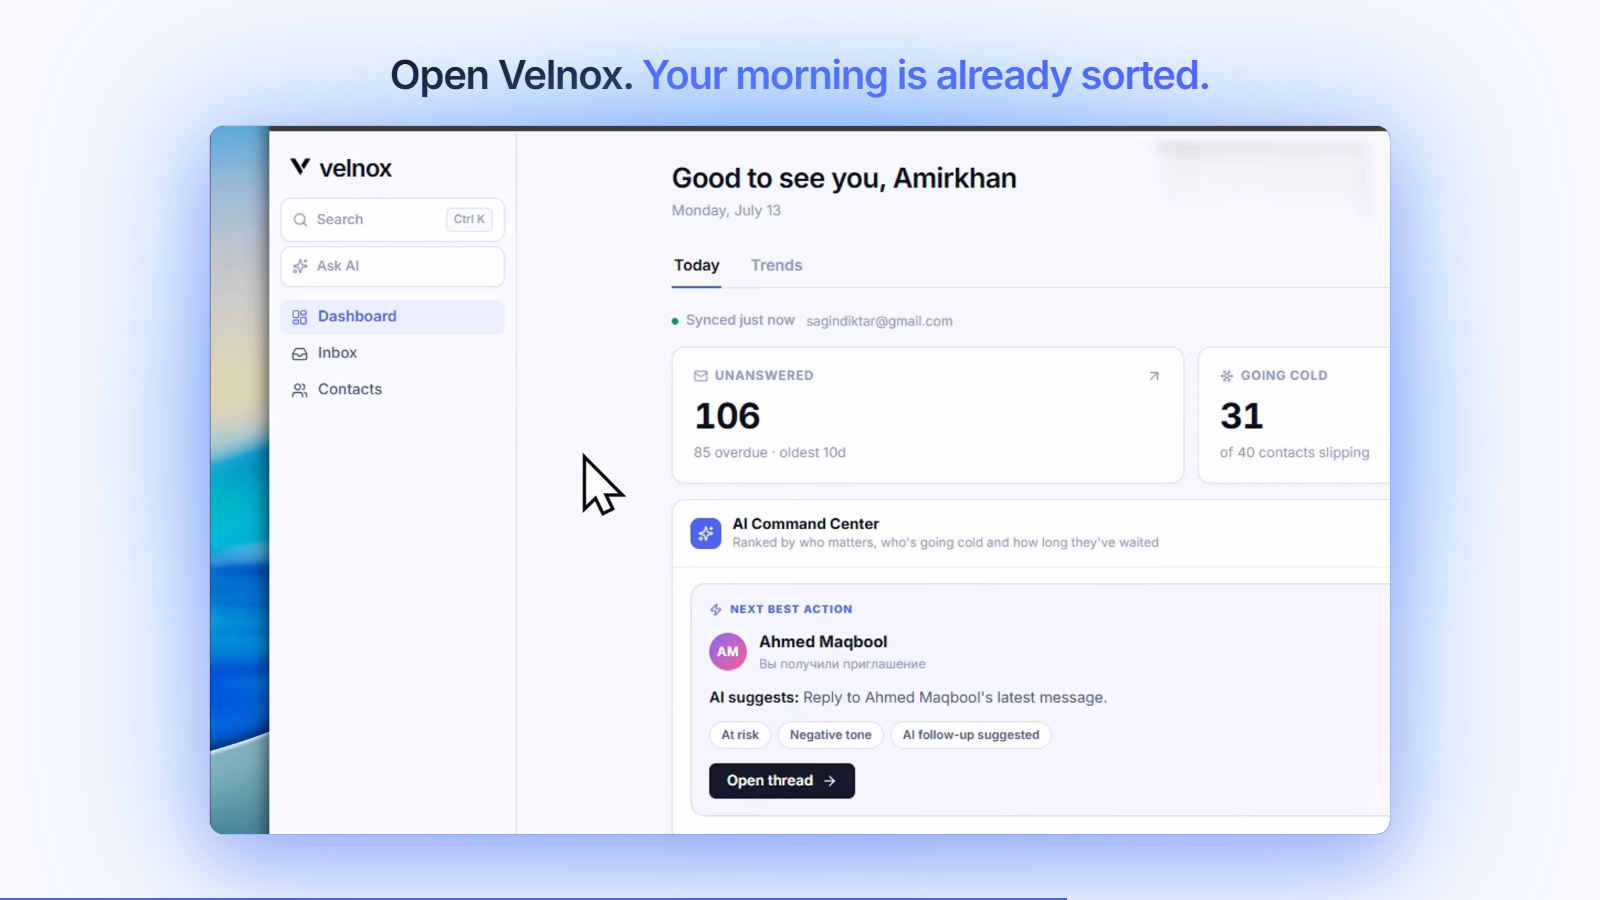
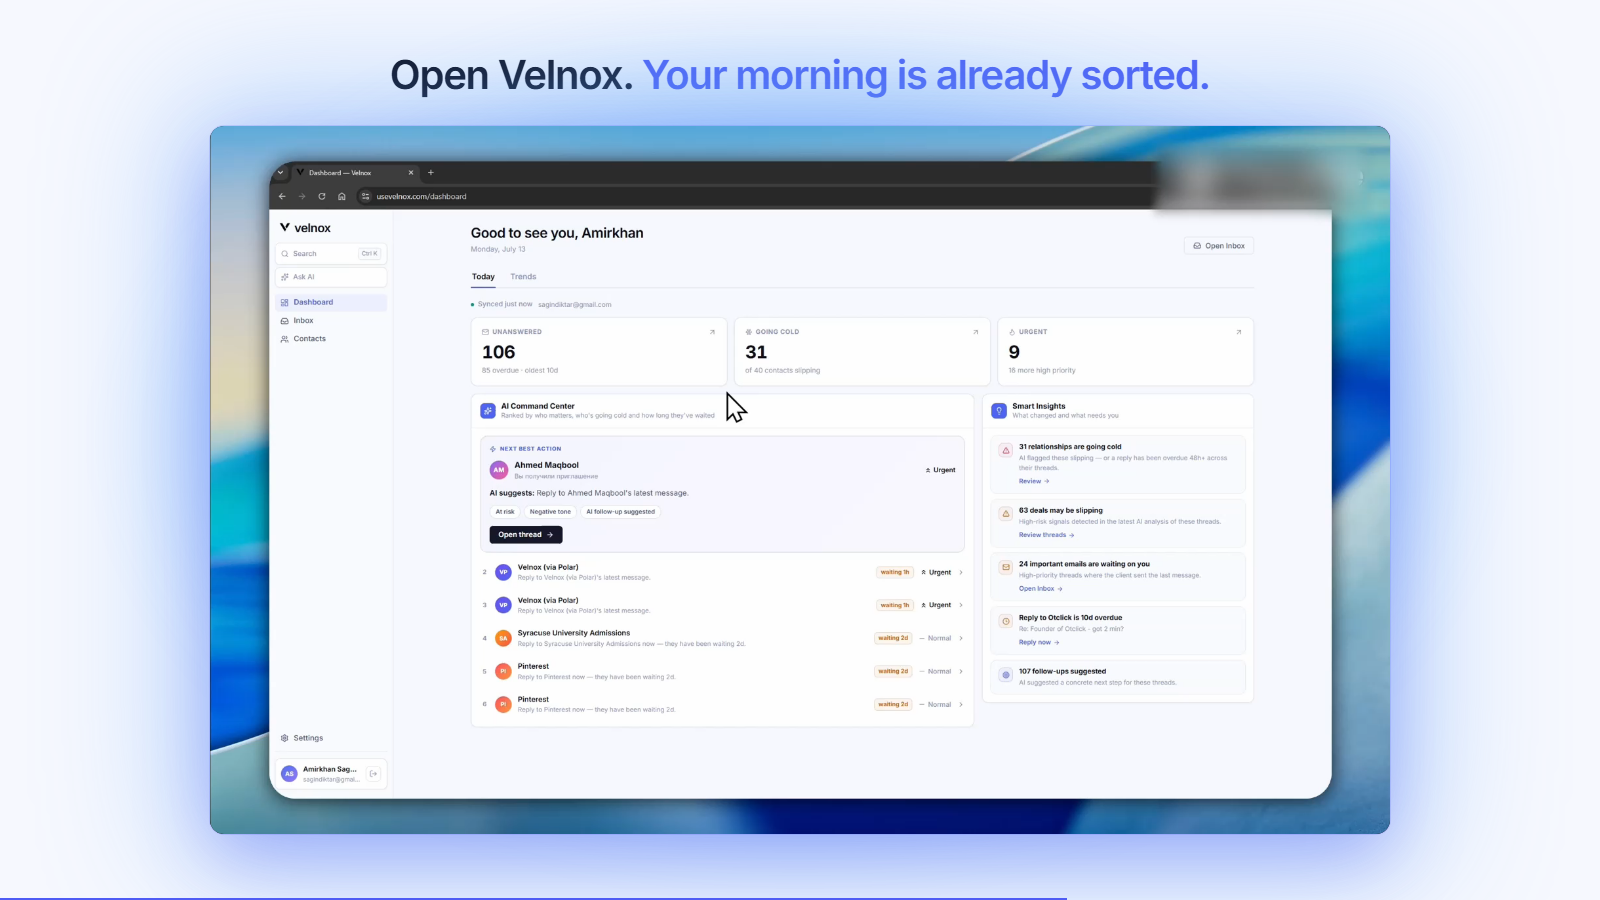
Rebuild the title card; pick a poster frame that isn't mid-zoom
Slide 1 was the landing hero rebuilt — big centred Fraunces two-liner over the
skyline, subtitle beneath. Slide 3 shows a photograph of that same hero as its
traction evidence. Same face, same centring, same skyline, same subtitle slot,
and near-synonymous words ("never lose a client in your Gmail" / "stop losing
clients in your inbox"): the room saw one composition twice and read the second
as a rerun. The hero now belongs to slide 3, where it is proof, and slide 1 is
what the brief actually asked for and what a title card should be — the logo and
one sentence.

Slide 4's still was grabbed at t=1.2s, which is mid-zoom. Screen Studio's
auto-zoom starts at ~0.3s and by 1s has pushed the window off the right edge of
its own frame, so the frame carried a severed "GOING COLD" card, a cursor
stranded in empty space, half a slide of blank white and one lone sliver of
wallpaper down the left that reads as a rendering fault. Contact-sheeting the
whole 30s showed t=0 is the only frame where the composition is intact: the
window whole, usevelnox.com/dashboard visible in the URL bar, all three stat
cards (106 / 31 / 9), Smart Insights, and the wallpaper surrounding the window
evenly — as a frame, which is what it is meant to be.

Worth being straight about the limit: the teal is inherent to the recording, not
a crop artefact. The window floats on that wallpaper and zooms and pans across
it for the whole 30s, so the video will always show some. t=0 is the best frame
[…]

diff --git a/deck/index.html b/deck/index.html
@@ -562,19 +562,24 @@ html, body {
   <section class="slide" id="s1" data-active>
     <div class="skyline" data-sky aria-hidden="true"></div>
 
+    <!-- Logo and one sentence. Nothing else.
+
+         This slide used to be the landing hero rebuilt: a big centred Fraunces
+         two-liner over the skyline with a subtitle under it. That is precisely
+         what slide 3 shows a photograph of — same face, same centring, same
+         skyline, same subtitle slot, and even near-synonymous words ("never lose
+         a client in your Gmail" / "stop losing clients in your inbox"). The room
+         saw one composition twice and read the second as a rerun of the first.
+         So the hero belongs to slide 3, where it is evidence, and the title card
+         is now what a title card should be: who this is, and what it does. -->
     <div class="inner">
-      <div class="r brand" style="gap:14px; margin-bottom:44px;">
-        <img src="../public/logo.png" alt="" width="40" height="40" />
-        <span style="font-size:43px;">velnox</span>
+      <div class="r brand" style="gap:26px; margin-bottom:34px; justify-content:center;">
+        <img src="../public/logo.png" alt="" width="88" height="88" />
+        <span style="font-size:104px;">velnox</span>
       </div>
 
-      <h1 class="r hero-serif" style="font-size:86px; margin-bottom:26px;">
-        Never lose a client<br />in your Gmail.
-      </h1>
-
-      <p class="r" style="font-size:21px; color:var(--text-secondary); line-height:1.6; max-width:760px; margin:0 auto; text-wrap:balance;">
-        Velnox reads your Gmail and tells you which client to answer today, who's going cold,
-        and what to say — with the reply already drafted.
+      <p class="r" style="font-size:34px; color:var(--text-secondary); letter-spacing:-0.022em; line-height:1.4; text-wrap:balance;">
+        Never lose a client in your Gmail.
       </p>
     </div>
   </section>

diff --git a/deck/build-pptx.js b/deck/build-pptx.js
@@ -87,5 +87,6 @@ pres.writeFile({ fileName: OUT }).then(() => {
   console.log(`  6 slides, ${STAGE_W}x${STAGE_H}in, ${(kb / 1024).toFixed(1)} MB`);
   console.log(`  video box: ${(SCENE.x * PX).toFixed(3)}, ${(SCENE.y * PX).toFixed(3)} ` +
               `${(SCENE.w * PX).toFixed(3)} x ${(SCENE.h * PX).toFixed(3)} in`);
-  console.log(`  NOTE: run crop-video.py next — the 60px pillarbox is still uncropped here.`);
+  console.log(`  NEXT: python deck/fix-video.py — the poster is still pptxgenjs's grey`);
+  console.log(`        placeholder and the 60px pillarbox is still uncropped.`);
 });

diff --git a/deck/fix-video.py b/deck/fix-video.py
@@ -4,7 +4,15 @@ pptxgenjs leaves two things wrong on slide 4 that it has no API for:
 
 1. The poster is its own grey play-button placeholder, which would sit over the
    middle of the slide until someone hits play. Replaced with poster.png — a real
-   1920x1080 frame of demo.mp4 at t=1.2s, the same frame slide4.png renders.
+   1920x1080 frame of demo.mp4 at t=0, the same frame slide4.png renders.
+
+   t=0 specifically. Screen Studio's auto-zoom starts moving at ~0.3s and by 1s
+   it has pushed the window off the right edge of its own frame, so a later grab
+   shows a severed card, a cursor stranded in dead space and a lone sliver of
+   wallpaper down one side that reads as a bug. At t=0 the window is whole, the
+   URL bar still says usevelnox.com/dashboard, all three stat cards are there,
+   and the wallpaper surrounds the window evenly — which is the composition
+   Screen Studio intended.
 
 2. demo.mp4 has 60px of black pillarbox per side. CSS crops it in index.html via
    overscan; PowerPoint's equivalent is a:srcRect on the blipFill, which is what
